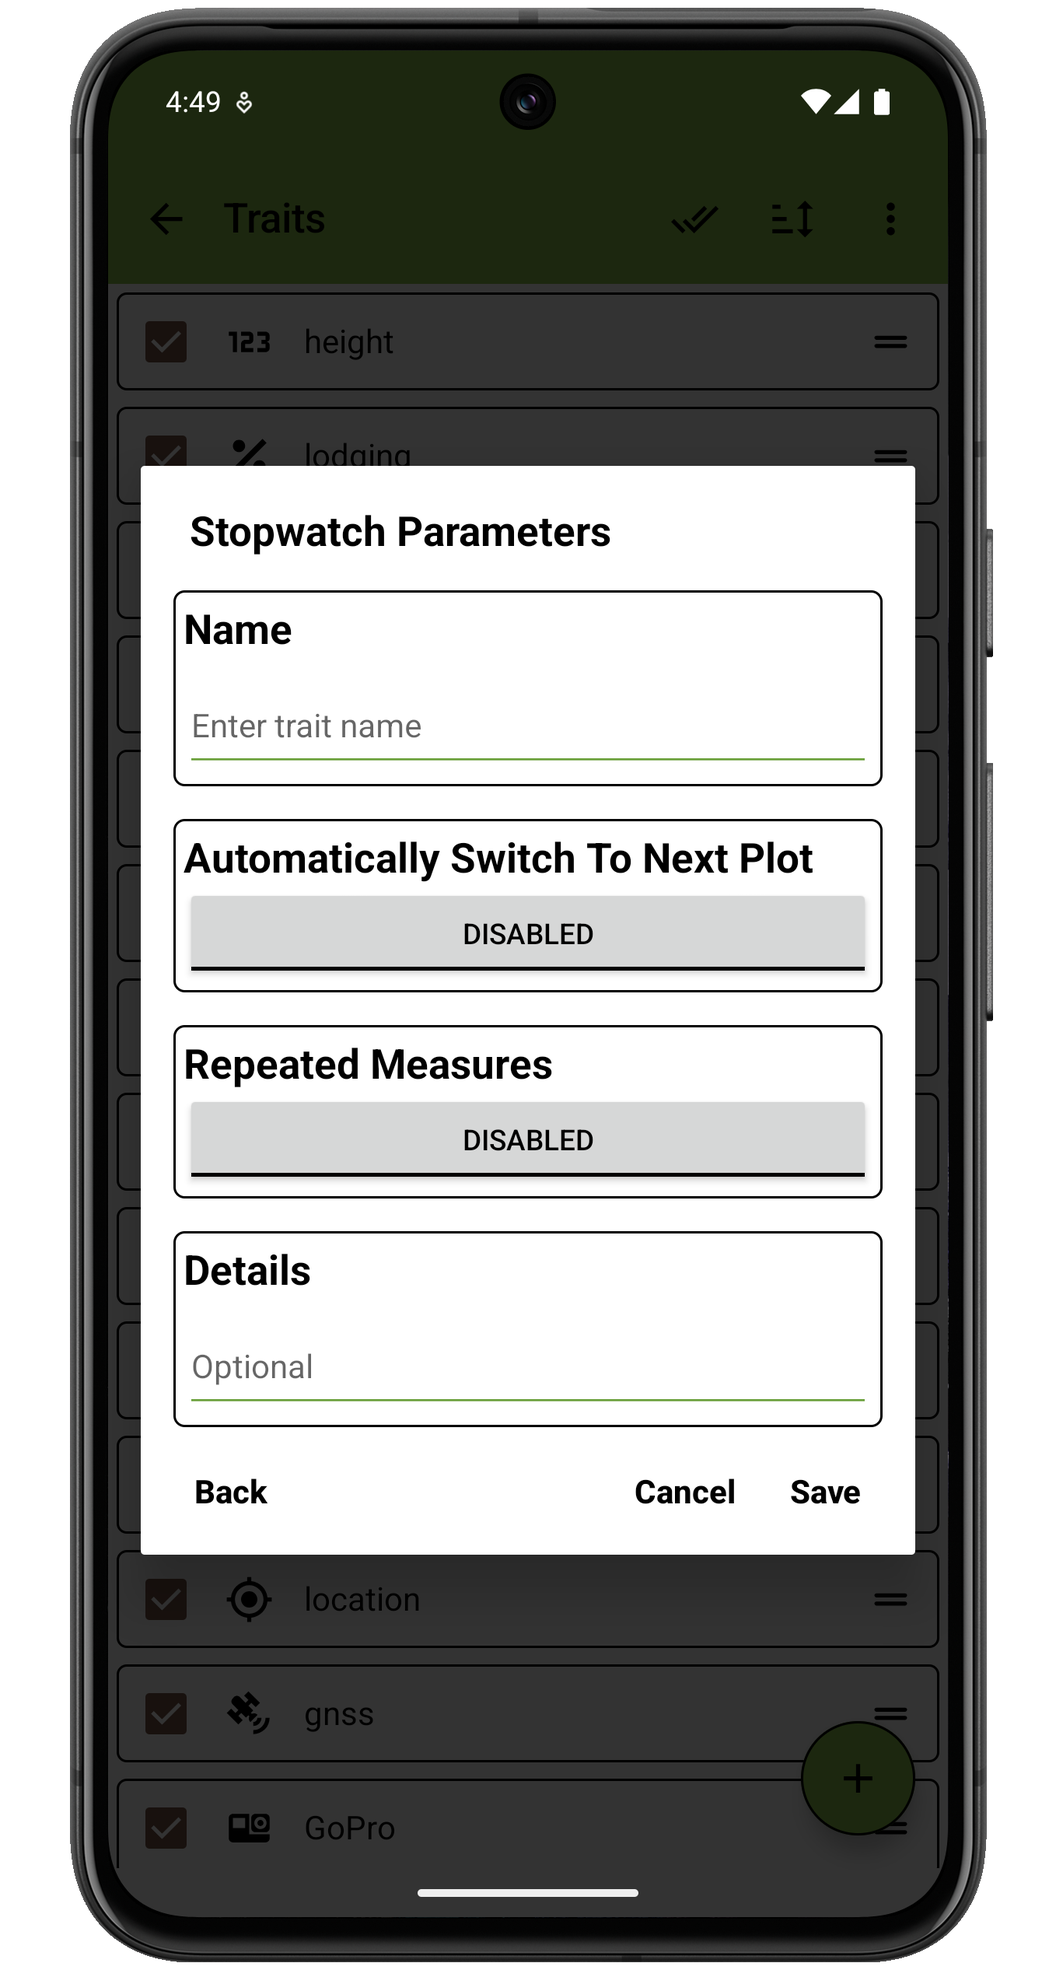
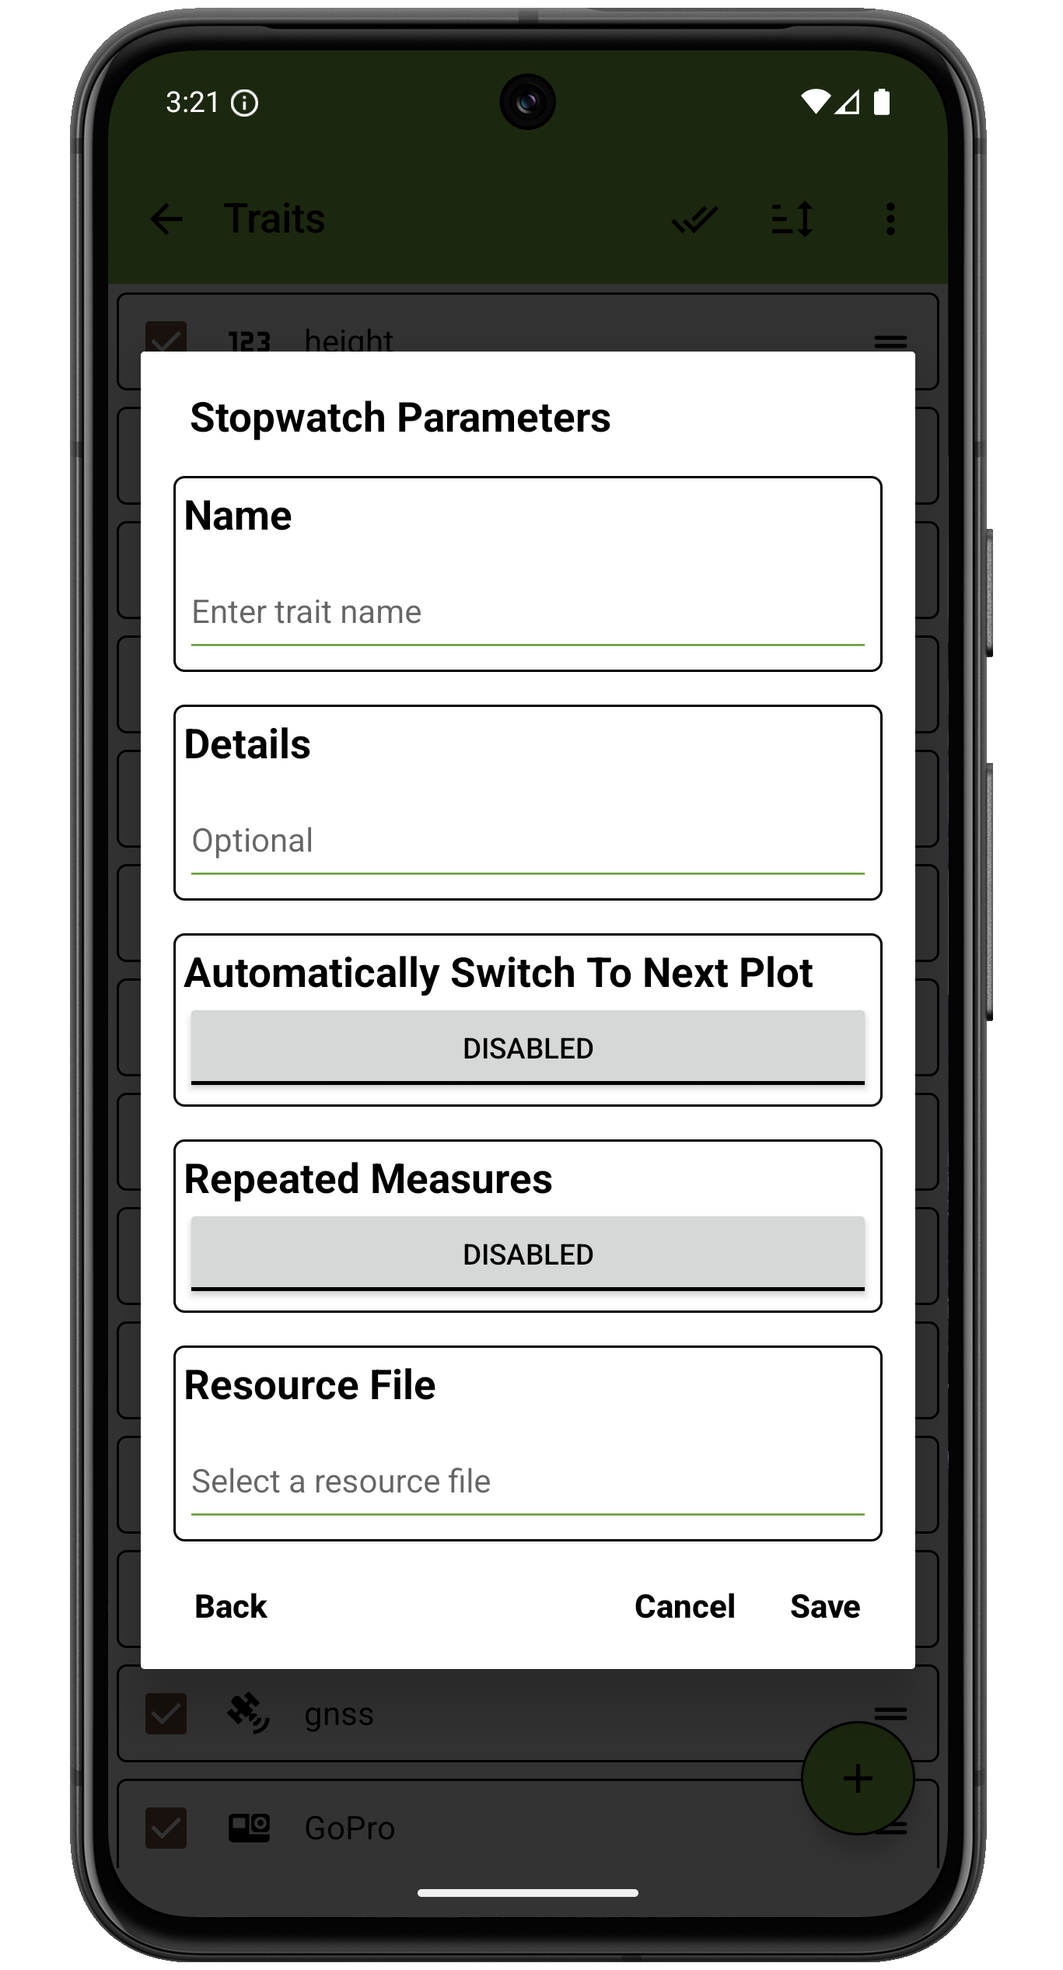
Add param docs for each trait

Changed region(s): [[0.1229, 0.1559, 0.8603, 0.7173], [0.1229, 0.7485, 0.8603, 0.8733], [0.1536, 0.0312, 0.2458, 0.0624]]

diff --git a/docs/traits.md b/docs/traits.md
@@ -7,18 +7,32 @@
 Data is collected in Field Book by defining different traits.
 Each trait layout is optimized to collect a specific data type.
 Traits can be created and managed in the Traits screen.
+Trait names and aliases must be unique.
 
 <figure class="image">
   <img class="screenshot" src="_static/images/traits/traits_screen.png" width="350px"> 
   <figcaption class="screenshot-caption"><i>The Traits screen layout with sample data loaded</i></figcaption> 
 </figure>
 
+Repeated measures can be turned on for specific traits during trait creation or in the[trait detail](#trait-details) screen.
+When turned on, a plus symbol appears next to the trait value entry box on the Collect screen.
+
+<figure class="image">
+  <img class="screenshot" src="../_static/images/traits/traits_repeated_measurepng" width="325px"> 
+  <figcaption class="screenshot-caption"><i>Collect screen value entry with repeated measurements enabled</i></figcaption> 
+</figure>
+
+When pressed it creates a new entry field for collecting additional phenotypes on the same entry for the same trait.
+
+!> To export data that includes repeated measures make sure to choose the **Database** format or to use **BrAPI**.
+These formats allow repeated measures to be differentiated by timestamp.
+If exporting in **Table** format, only the most recent measurement will be included.
+
 ## Creating a Trait
 
-Traits are created by pressing the <img class="icon" src="_static/icons/traits/plus-circle.png"> icon in the bottom right corner of the Traits screen.
+Traits are created by pressing the <img class="icon" src="./_static/icons/traits/plus-circle.png"> icon in the bottom right corner of the Traits screen.
 Select a format, then fill in the trait parameters in the format-specific dialog.
-Each trait has a `format`, a trait `name`, optional `details`, and format-dependent fields such as `min`, `max`, and `default`.
-Trait names must be unique.
+Each trait has a `format`, a trait `name`, optional `details` and `resource-file`, and format-dependent fields such as `min`, `max`, and `default`, etc.
 
 <figure class="image">
   <img class="screenshot" src="_static/images/traits/joined_traits_create.png" width="700px"> 
@@ -31,14 +45,9 @@ Existing traits can be manipulated using the following features:
 
 #### Single trait changes
 
-- **Reorder** an individual trait by pressing and dragging the <img class="icon" src="_static/icons/traits/reorder-horizontal.png"> icon.
-- **Copy**, **Edit**, or **Delete** an individual trait by pressing the <img class="icon" src="_static/icons/traits/dots-vertical.png"> icon on its trait line and selecting the desired operation.
+- **Reorder** an individual trait by pressing and dragging the <img class="icon" src="./_static/icons/traits/drag_handle.png"> icon.
+- **Copy**, **Edit**, or **Delete** an individual trait in the [trait detail](#trait-details) section
 - Set an individual trait to be **Active** or **Inactive** in the <img class="icon" src="_static/icons/home/barley.png"> [Collect](collect.md) screen by checking/unchecking the checkbox on each trait line.
-
-<figure class="image">
-  <img class="screenshot" src="_static/images/traits/single_trait_menu_framed.png" width="350px"> 
-  <figcaption class="screenshot-caption"><i>Single trait management menu</i></figcaption> 
-</figure>
 
 #### All trait changes
 
@@ -54,8 +63,12 @@ Actions that apply to all traits can be initiated from the top toolbar.
   <figcaption class="screenshot-caption"><i>All traits mangement menu</i></figcaption> 
 </figure>
 
-Trait imports and exports are similar to field imports and can be lodaed from [local storage](fields.md#local-storage) or [cloud sources](fields.md#cloud-storage). 
+Trait imports and exports are similar to field imports and can be loaded from [local storage](fields.md#local-storage) or [cloud sources](fields.md#cloud-storage). 
 Trait lists are exported as `.trt` files in the `trait` folder.
 It is not recommended to manually edit these files.
 
+You will be prompted to check whether you want to export and/or delete all the existing traits when importing traits from a file. 
+
 For information about importing traits using BrAPI, see the [BrAPI](brapi.md) section of the documentation.
+
+## Trait Details

diff --git a/docs/traits/trait-numeric.md b/docs/traits/trait-numeric.md
@@ -1,12 +1,32 @@
-<link rel="stylesheet" type="text/css" href="_styles/styles.css">
+<link rel="stylesheet" type="text/css" href="../_styles/styles.css">
 
 # <img class="icon-title" src="../_static/icons/formats/numeric.png"> Numeric Trait
 
 The numeric trait format is used for quantitative traits like height.
-`minimum` and `maximum` thresholds can be set during trait creation to help reduce errors during data collection.
-Details text is displayed under the trait name on the Collect screen.
+
+### Parameters
+- `Name` assign a value for trait name, alias, and assigns synonyms list to hold the value.
+- `Default` automatically assigns a specific value for the observation when visiting an entry having no observation recorded previously.
+- `minimum` and `maximum` thresholds can be set during trait creation to help reduce errors during data collection.
+- `Decimal Places` adds additional layer of data validation to be performed during collection.
+`No restriction` will allow all kinds of possible values including mathematical symbols (if enabled), 
+`Integers only` will only accept integer values, 
+`Allow decimal input` will allow user specified (between 1-10) characters after the decimal point.
+- `Mathematical Symbols` hides the buttons with mathematical symbols ( **;** , **+** , **-** and **\*** ) when disabled.
+- `Allow Invalid Value` when enabled and a value that voilates any of the set restrictions is entered, will prompt the user if they want to save the data.
+- `Details` text is displayed under the trait name on the Collect screen.
+- `Unit` text can be set to denote the unit for the observation.
+- `Repeated Measures` turns on repeated measure for the trait when enabled.
+- `Resource File` opens the resources folder and can be used to set a image for the trait that can be reference later in the Collect screen.
+
+Setting either `Integers only` or `Allow decimal input` in `Decimal Places` cannot be done while `Mathematical Symbols` are enabled to avoid invalid inputs.
 
 <figure class="image">
   <img class="screenshot" src="_static/images/traits/formats/joined_numeric_format.png" width="700px"> 
   <figcaption class="screenshot-caption"><i>Numeric trait creation dialog and collect format</i></figcaption> 
+</figure>
+
+<figure class="image">
+  <img class="screenshot" src="_static/images/traits/formats/joined_numeric_invalid.png" width="700px"> 
+  <figcaption class="screenshot-caption"><i>Invalid value prompt for integer only restriction</i></figcaption> 
 </figure>

diff --git a/docs/traits/trait-categorical.md b/docs/traits/trait-categorical.md
@@ -1,15 +1,27 @@
-<link rel="stylesheet" type="text/css" href="_styles/styles.css">
+<link rel="stylesheet" type="text/css" href="../_styles/styles.css">
 
 # <img class="icon-title" src="../_static/icons/formats/view-agenda.png"> Categorical Trait
 
 The categorical trait format is used when trait values fall into a set of discrete categories.
-Categories are individually added in the `Categories` section of the creation dialog.
-Details text is displayed under the trait name on the Collect screen.
+
+### Parameters
+- `Name` assign a value for trait name, alias, and assigns synonyms list to hold the value.
+- `Details` text is displayed under the trait name on the Collect screen.
+- `Categories` represents the individual unqiue categories.
+- `Multiple Category Selection` can be set to allow single or multiple category selection for each entry. 
+- `Unit` text can be set to denote the unit for the observation.
+- `Automatically Switch to Next Plot` when enabled will immediately move to next entry when the user records an observation for an entry in the Collect screen.
+- `Repeated Measures` turns on repeated measure for the trait when enabled.
+- `Resource File` opens the resources folder and can be used to set a image for the trait that can be reference later in the Collect screen.
 
 Defined categories are displayed as buttons on the Collect screen.
-A single category can be selected for each entry.
 
 <figure class="image">
   <img class="screenshot" src="../_static/images/traits/formats/joined_categorical_format.png" width="700px"> 
   <figcaption class="screenshot-caption"><i>Categorical trait creation dialog and collect format</i></figcaption> 
+</figure>
+
+<figure class="image">
+  <img class="screenshot" src="../_static/images/traits/formats/collect_categorical_multicat.png" width="325px"> 
+  <figcaption class="screenshot-caption"><i>Categorical trait with multicat enabled</i></figcaption> 
 </figure>

diff --git a/docs/traits/trait-photo.md b/docs/traits/trait-photo.md
@@ -1,4 +1,4 @@
-<link rel="stylesheet" type="text/css" href="_styles/styles.css">
+<link rel="stylesheet" type="text/css" href="../_styles/styles.css">
 
 # <img class="icon-title" src="../_static/icons/formats/camera.png"> Photo Trait
 
@@ -8,6 +8,13 @@ The photo trait formats are used to capture images.
 Field Book allows photos to be captured from different camera sources including the device camera, <img class="icon" src="_static/icons/formats/webcam.png"> USB cameras, <img class="icon" src="_static/icons/formats/camera-gopro.png"> GoPro cameras, and <img class="icon" src="_static/icons/formats/shutter.png"> [compatible](https://developercommunity.usa.canon.com/s/article/CCAPI-Supported-Cameras) Canon cameras.
 
 ## Creation
+
+#### Parameters
+- `Name` assign a value for trait name, alias, and assigns synonyms list to hold the value.
+- `Details` text is displayed under the trait name on the Collect screen.
+- `Crop` when enabled, define a crop region through the <img class="icon" src="_static/icons/formats/cog.png"> in Collect screen or when capturing the first picture, and apply to all future pictures for the trait.
+- `Automatically Switch to Next Plot` when enabled will immediately move to next entry when the user records an observation for an entry in the Collect screen.
+- `Resource File` opens the resources folder and can be used to set a image for the trait that can be reference later in the Collect screen.
 
 <figure class="image">
   <img class="screenshot" src="../_static/images/traits/formats/joined_create_photo_format.png" width="700px"> 

diff --git a/docs/traits/trait-boolean.md b/docs/traits/trait-boolean.md
@@ -1,11 +1,19 @@
-<link rel="stylesheet" type="text/css" href="_styles/styles.css">
+<link rel="stylesheet" type="text/css" href="../_styles/styles.css">
 
 # <img class="icon-title" src="../_static/icons/formats/close-circle.png"> Boolean Trait
 
 The Boolean trait format is used to record `TRUE`/`FALSE` values.
-It is created with a `name`, `default` value, and optional `details`.
 On the Collect screen you can toggle between `TRUE` and `FALSE`.
-Details text is displayed under the trait name on the Collect screen.
+
+### Parameters
+- `Name` assign a value for trait name, alias, and assigns synonyms list to hold the value.
+- `Default` value can be set to False, True, or even Unset to avoid storing a boolean value by default.
+- `Details` text is displayed under the trait name on the Collect screen.
+- `Automatically Switch to Next Plot` when enabled will immediately move to next entry when the user records an observation for an entry in the Collect screen.
+- `Repeated Measures` turns on repeated measure for the trait when enabled.
+- `Resource File` opens the resources folder and can be used to set a image for the trait that can be reference later in the Collect screen.
+
+On the collect screen, deleting an observation for a entry will set the seekbar to unset state and vice versa.
 
 <figure class="image">
   <img class="screenshot" src="../_static/images/traits/formats/joined_boolean_format.png" width="700px"> 

diff --git a/docs/settings/settings-experimental.md b/docs/settings/settings-experimental.md
@@ -3,27 +3,9 @@
 # Experimental Settings
 
 <figure class="image">
-  <img class="screenshot" src="_static/images/settings/experimental/settings_experimental_framed.png" width="350px"> 
+  <img class="screenshot" src="../_static/images/settings/experimental/settings_experimental.png" width="350px"> 
   <figcaption class="screenshot-caption"><i>Experimental settings screen layout</i></figcaption> 
 </figure>
-
-## Stable
-
-#### <img class="icon" src="_static/icons/settings/experimental/flask-outline.png"> Repeated Measures
-
-Turns on repeated measures.
-When turned on, a plus symbol appears next to the trait value entry box on the Collect screen.
-
-<figure class="image">
-  <img class="screenshot" src="_static/images/settings/experimental/settings_experimental_repeated_icon.png" width="325px"> 
-  <figcaption class="screenshot-caption"><i>Collect screen value entry with repeated measurements enabled</i></figcaption> 
-</figure>
-
-When pressed it creates a new entry field for collecting additional phenotypes on the same entry for the same trait.
-
-!> To export data that includes repeated measures make sure to choose the **Database** format or to use **BrAPI**.
-These formats allow repeated measures to be differentiated by timestamp.
-If exporting in **Table** format, only the most recent measurement will be included.
 
 ## Beta
 

diff --git a/docs/traits/trait-location.md b/docs/traits/trait-location.md
@@ -1,10 +1,15 @@
-<link rel="stylesheet" type="text/css" href="_styles/styles.css">
+<link rel="stylesheet" type="text/css" href="../_styles/styles.css">
 
 # <img class="icon-title" src="../_static/icons/formats/crosshairs-gps.png"> Location Trait
 
 The location trait is used to record the GPS coordinates of the device.
-It is created with a trait `name` and optional `details`.
-Details text is displayed under the trait name on the Collect screen.
+
+### Parameters
+- `Name` assign a value for trait name, alias, and assigns synonyms list to hold the value.
+- `Details` text is displayed under the trait name on the Collect screen.
+- `Automatically Switch to Next Plot` when enabled will immediately move to next entry when the user records an observation for an entry in the Collect screen.
+- `Repeated Measures` turns on repeated measure for the trait when enabled.
+- `Resource File` opens the resources folder and can be used to set a image for the trait that can be reference later in the Collect screen.
 
 On the Collect screen, pressing the <img class="icon" src="_static/icons/formats/crosshairs-gps.png"> button will record the current latitude and longitude.
 If the device is connected to an external location source, the coordinates from this source will be used instead of the device's internal GPS.

diff --git a/docs/traits/trait-spectral.md b/docs/traits/trait-spectral.md
@@ -13,12 +13,16 @@ Spectral data can be collected in two ways depending on the sensor:
 
 ## Creation
 
+#### Parameters
+- `Name` assign a value for trait name, alias, and assigns synonyms list to hold the value.
+- `Details` text is displayed under the trait name on the Collect screen.
+- `Automatically Switch to Next Plot` when enabled will immediately move to next entry when the user records an observation for an entry in the Collect screen.
+- `Repeated Measures` turns on repeated measure for the trait when enabled.
+- `Resource File` opens the resources folder and can be used to set a image for the trait that can be reference later in the Collect screen.
+
 <figure class="image" style="text-align: center">
-    <p>
-      <img src="../_static/images/traits/formats/spectral/trait_creator_dialog.png" width="250" />
-      <img src="../_static/images/traits/formats/spectral/trait_creator_dialog_spectral_sub_layout.png" width="250" />
-      <img src="../_static/images/traits/formats/spectral/trait_creator_dialog_spectral_options.png" width="250" />
-    </p>
+  <img src="../../_static/images/traits/formats/spectral/joined_spectral_create.png" width="1100px" />
+  <figcaption class="screenshot-caption"><i>Spectral trait creation dialog</i></figcaption> 
 </figure>
 
 ## Connect

diff --git a/docs/traits/trait-percent.md b/docs/traits/trait-percent.md
@@ -1,9 +1,17 @@
-<link rel="stylesheet" type="text/css" href="_styles/styles.css">
+<link rel="stylesheet" type="text/css" href="../_styles/styles.css">
 
 # <img class="icon-title" src="../_static/icons/formats/percent.png"> Percent Trait
 
-The percent trait format is used to collect percentage-based phenotypes with customizable `minimum` and `maximum` values.
-Details text is displayed under the trait name on the Collect screen.
+The percent trait format is used to collect percentage-based phenotypes.
+
+### Parameters
+- `Name` assign a value for trait name, alias, and assigns synonyms list to hold the value.
+- `Default` automatically assigns a specific value  within the set range for the observation when visiting an entry having no observation recorded previously.
+- `minimum` and `maximum` defines the range for acceptable inputs.
+- `Details` text is displayed under the trait name on the Collect screen.
+- `Unit` text can be set to denote the unit for the observation.
+- `Repeated Measures` turns on repeated measure for the trait when enabled.
+- `Resource File` opens the resources folder and can be used to set a image for the trait that can be reference later in the Collect screen.
 
 On the Collect screen, percent values are recorded by adjusting the percent slider.
 

diff --git a/docs/traits/trait-zebra.md b/docs/traits/trait-zebra.md
@@ -1,4 +1,4 @@
-<link rel="stylesheet" type="text/css" href="_styles/styles.css">
+<link rel="stylesheet" type="text/css" href="../_styles/styles.css">
 
 # <img class="icon-title" src="../_static/icons/formats/printer.png"> Zebra Label Print Trait
 
@@ -6,8 +6,12 @@
 
 The Zebra Label Print trait format is used to print labels from an external printer.
 The trait is designed to work with Zebra's [ZQ500 Series](https://www.zebra.com/us/en/products/printers/mobile/zq500.html) of mobile printers.
-It is created with a trait `name` and optional `details`.
-Details text is displayed under the trait name on the Collect screen.
+
+### Parameters
+- `Name` assign a value for trait name, alias, and assigns synonyms list to hold the value.
+- `Details` text is displayed under the trait name on the Collect screen.
+- `Automatically Switch to Next Plot` when enabled will immediately move to next entry when the user records an observation for an entry in the Collect screen.
+- `Resource File` opens the resources folder and can be used to set a image for the trait that can be reference later in the Collect screen.
 
 To use this trait, the Zebra printer must first be paired via Bluetooth.
 Label size, barcode, data, and number of copies are selected and saved as defaults.

diff --git a/docs/traits/trait-date.md b/docs/traits/trait-date.md
@@ -1,9 +1,16 @@
-<link rel="stylesheet" type="text/css" href="_styles/styles.css">
+<link rel="stylesheet" type="text/css" href="../_styles/styles.css">
 
 # <img class="icon-title" src="../_static/icons/formats/calendar-range.png"> Date Trait
 
 The date trait format is used to record dates.
-Details text is displayed under the trait name on the Collect screen.
+
+### Parameters
+- `Name` assign a value for trait name, alias, and assigns synonyms list to hold the value.
+- `Details` text is displayed under the trait name on the Collect screen.
+- `Use Day of Year` will show the day of year (eg. 10) instead of the date (eg. Jan 10).
+- `Automatically Switch to Next Plot` when enabled will immediately move to next entry when the user records an observation for an entry in the Collect screen.
+- `Repeated Measures` turns on repeated measure for the trait when enabled.
+- `Resource File` opens the resources folder and can be used to set a image for the trait that can be reference later in the Collect screen.
 
 On the Collect screen, the current date is displayed by default and can be incremented forwards ( **+** ) or backwards ( **-** ) in single day intervals.
 The calendar button will open a date picker to select a specific date.

diff --git a/docs/traits/trait-gnss.md b/docs/traits/trait-gnss.md
@@ -7,6 +7,13 @@
 The GNSS trait format is used to acquire high-precision geocoordinates from an external, Bluetooth-connected device.
 While other traits only capture phenotypic data, the GNSS trait is intended to be used to also capture entry metadata that can be used in conjunction with the <img class="icon" src="_static/icons/settings/main/map-search.png">[Geonav](geonav.md) feature to automatically navigate through the field.
 
+### Parameters
+- `Name` assign a value for trait name, alias, and assigns synonyms list to hold the value.
+- `Details` text is displayed under the trait name on the Collect screen.
+- `Automatically Switch to Next Plot` when enabled will immediately move to next entry when the user records an observation for an entry in the Collect screen.
+- `Repeated Measures` turns on repeated measure for the trait when enabled.
+- `Resource File` opens the resources folder and can be used to set a image for the trait that can be reference later in the Collect screen.
+
 <figure class="image">
   <img class="screenshot" src="../_static/images/traits/formats/joined_gnss_format.png" width="700px"> 
   <figcaption class="screenshot-caption"><i>GNSS trait creation dialog and collect format</i></figcaption> 
